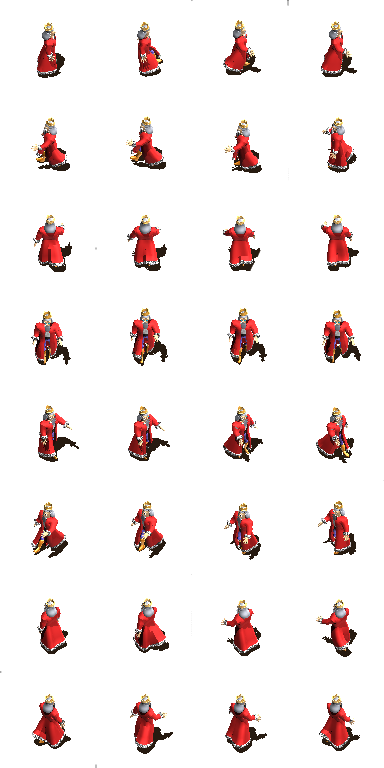
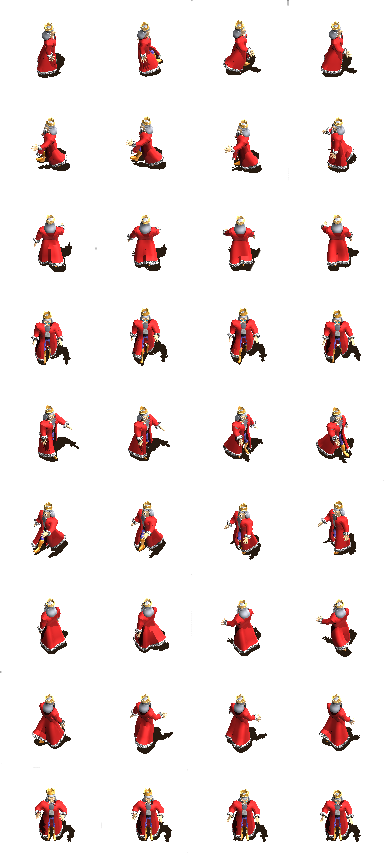
Dami: subo al personaje cuando esta quieto

diff --git a/trunk/TpTaller/src/view/personaje/PersonajeVista.cpp b/trunk/TpTaller/src/view/personaje/PersonajeVista.cpp
@@ -29,6 +29,7 @@ SDL_Rect clipsAbajoIzq[4];
 SDL_Rect clipsAbajoDer[4];
 SDL_Rect clipsArribaDer[4];
 SDL_Rect clipsArribaIzq[4];
+SDL_Rect clipsQuieto[4];
 
 SDL_Surface *load_image(char* urlImagen) {
 	//The image that's loaded
@@ -67,6 +68,7 @@ void PersonajeVista::Draw(float x, float y, SDL_Surface* source,
 	offset.w = clip->w;
 	offset.h = clip->h;
 	SDL_BlitSurface(source, clip, screen, &offset);
+	SDL_Delay(60);
 }
 
 void PersonajeVista::UpdateCameraPos(int x, int y) {
@@ -147,8 +149,10 @@ void PersonajeVista::Mostrar(SDL_Surface* fondo) {
 	if (miPersonaje->IsMoving())
 		this->marco++;	// Move to the next marco in the animation
 	else
-		marco = 0;	// Stop Animation, unit standing.
-
+	{
+		clipToDraw= &clipsQuieto[marco];
+		marco++;	// Stop Animation, unit standing.
+	}
 	if (marco >= 4)
 		marco = 0;    // Loop the animation
 
@@ -205,6 +209,11 @@ void PersonajeVista::EstablecerLosClips(int cantidadPorLado) {
 		clipsAbajoDer[cantidadDePosiciones].w = PERSONAJE_ANCHO;
 		clipsAbajoDer[cantidadDePosiciones].h = PERSONAJE_ALTO;
 
+		clipsQuieto[cantidadDePosiciones].x = PERSONAJE_ANCHO
+						* cantidadDePosiciones;
+		clipsQuieto[cantidadDePosiciones].y = PERSONAJE_ALTO * 8;
+		clipsQuieto[cantidadDePosiciones].w = PERSONAJE_ANCHO;
+		clipsQuieto[cantidadDePosiciones].h = PERSONAJE_ALTO;
 	}
 }
 /*

diff --git a/trunk/TpTaller/src/Game.cpp b/trunk/TpTaller/src/Game.cpp
@@ -20,6 +20,7 @@
 #define Default_w	800		// px
 #define Default_h	600		// px
 #define Default_bpp 0		// px
+
 SDL_Surface* pantalla;
 SDL_Rect posFondo;
 SDL_Surface* fondo;

diff --git a/trunk/TpTaller/src/view/map/Map.cpp b/trunk/TpTaller/src/view/map/Map.cpp
@@ -6,6 +6,7 @@
 #define TilesOverlap	2		// px
 #define TilesScale  	1
 #define CameraSpeed		5		// px
+
 Map::Map(MapData* _data) {
 	data = _data;
 	cameraX = cameraY = 0;
